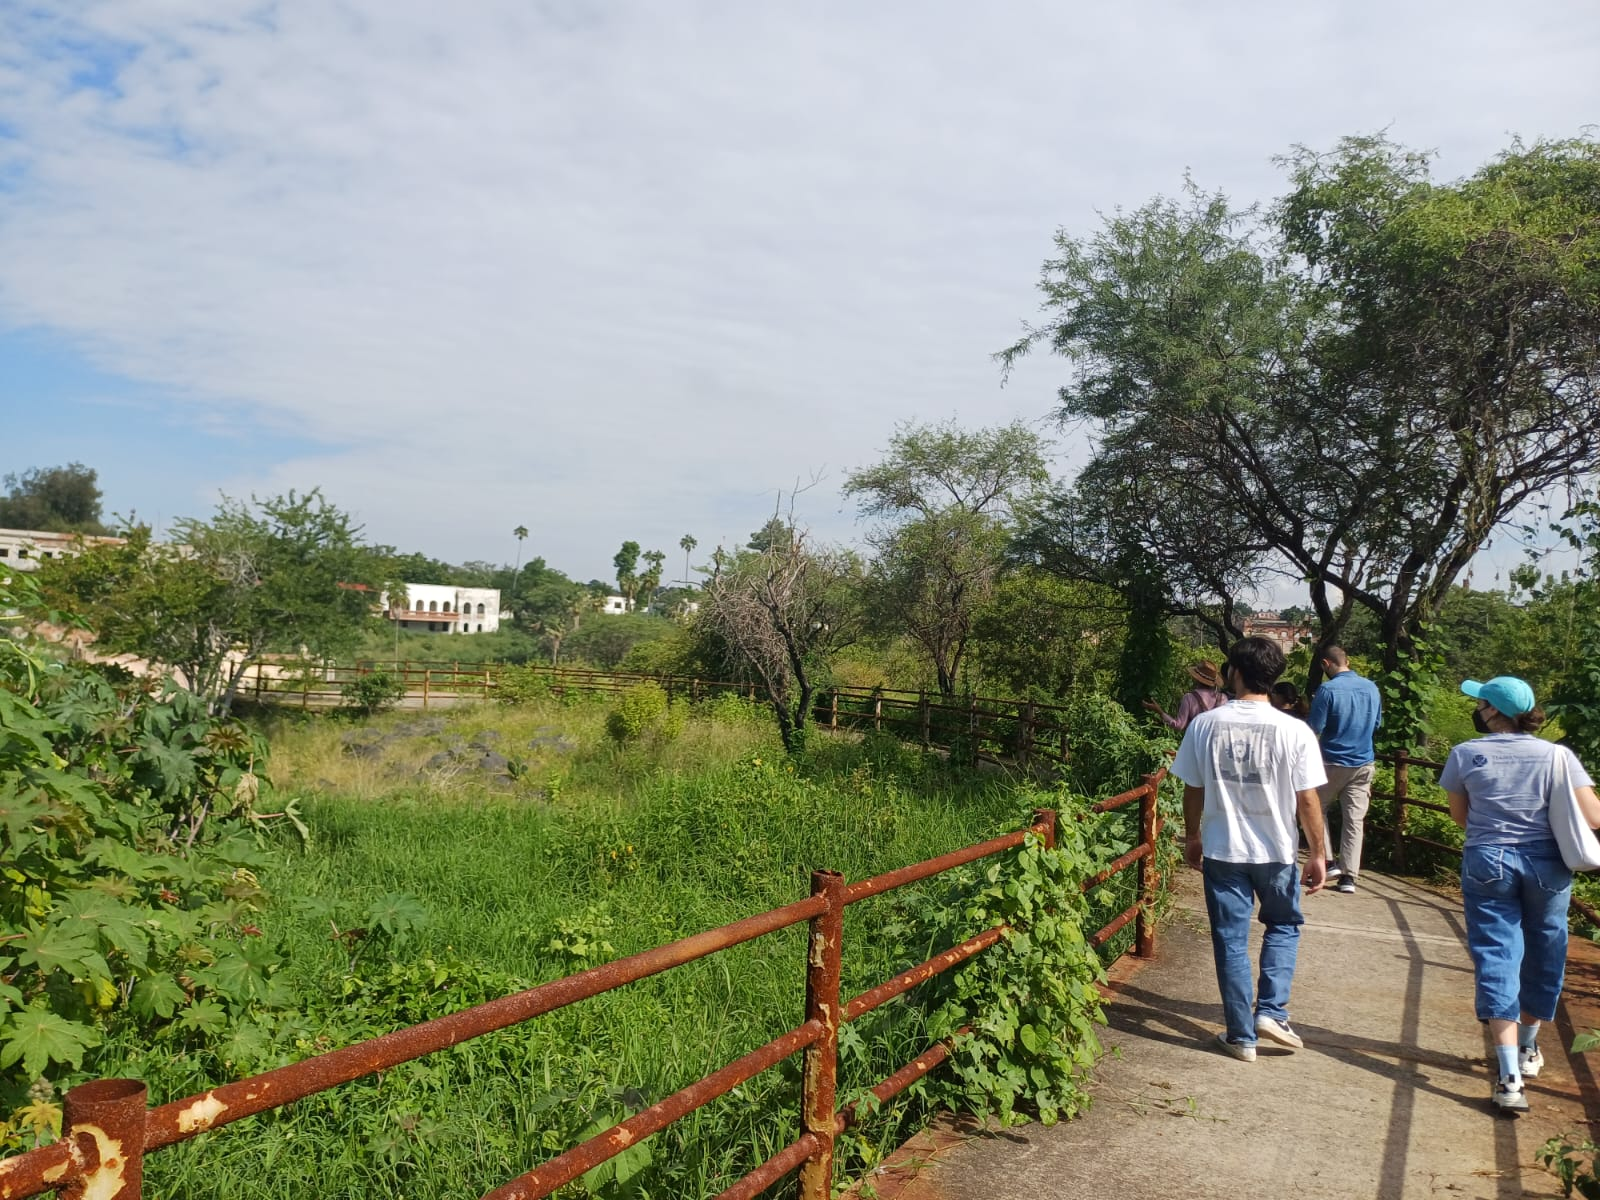
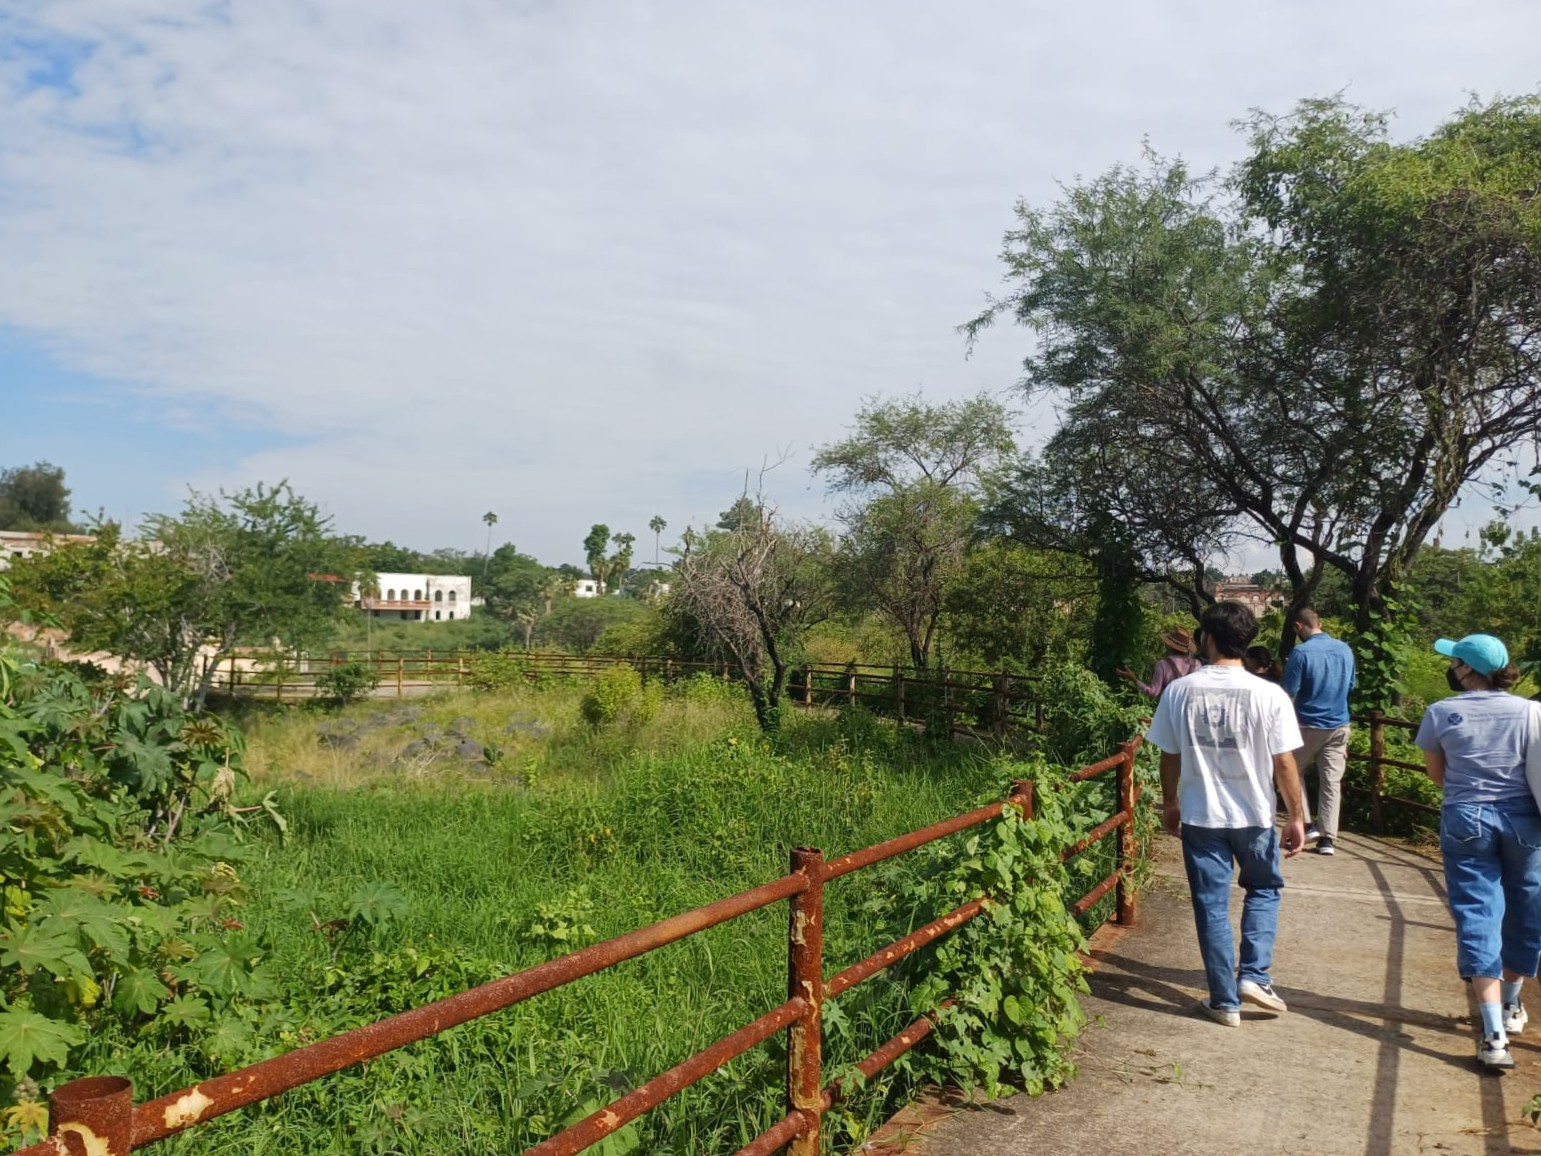
feat: agregar imágenes faltantes de regiones

diff --git a/src/pages/home/Home-Comunidades.tsx b/src/pages/home/Home-Comunidades.tsx
@@ -4,13 +4,18 @@ import brush1 from "@assets/brushStrokes/img10-3-1.png"
 import brush2 from "@assets/brushStrokes/img10-2-4.png"
 import brush3 from "@assets/brushStrokes/img10-1-3.png"
 
-import imgTmp from "@assets/regiones/image-2-2.png"
 import imgAltosNorte from "@assets/regiones/altos-norte.jpg"
 import imgCienega from "@assets/regiones/cienega.jpg"
 import imgNorte from "@assets/regiones/norte.jpg"
 import imgSierraOccidental from "@assets/regiones/sierra-occidental.jpeg"
 import imgAltosSur from "@assets/regiones/altos-sur-2.jpeg"
-import imgCentro from "@assets/regiones/centro.png"
+import imgCentro from "@assets/regiones/centro.jpg"
+import imgLagunas from "@assets/regiones/lagunas.jpeg"
+import imgSierraAmula from "@assets/regiones/sierra-amula.jpeg"
+import imgCostaSur from "@assets/regiones/costa-sur.jpeg"
+import imgValles from "@assets/regiones/valles.jpeg"
+import imgSur from "@assets/regiones/sur.jpeg"
+import imgSureste from "@assets/regiones/image-2-2.png"
 
 const comunidades = [
     {
@@ -35,37 +40,32 @@ const comunidades = [
     },
     {
         name: 'Sureste',
-        img: imgTmp,
+        img: imgSureste,
         to: '/regiones/sureste'
     },
     {
         name: 'Sur',
-        img: imgTmp,
+        img: imgSur,
         to: '/regiones/sur'
     },
     {
         name: 'Sierra de Amula',
-        img: imgTmp,
-        to: '/regiones/sierra-amula'
+        img: imgSierraAmula,
+        to: '/regiones/sierra-de-amula'
     },
     {
         name: 'Costa Sur',
-        img: imgTmp,
+        img: imgCostaSur,
         to: '/regiones/costa-sur'
     },
     {
-        name: 'Costa Norte',
-        img: imgTmp,
-        to: '/regiones/costa-norte'
-    },
-    {
-        name: 'Sierra Occidental',
+        name: 'Costa Sierra Occidental',
         img: imgSierraOccidental,
-        to: '/regiones/sierra-occidental'
+        to: '/regiones/costa-sierra-occidental'
     },
     {
         name: 'Valles',
-        img: imgTmp,
+        img: imgValles,
         to: '/regiones/valles'
     },
     {
@@ -73,6 +73,11 @@ const comunidades = [
         img: imgCentro,
         to: '/regiones/centro'
     },
+    {
+        name: 'Lagunas',
+        img: imgLagunas,
+        to: '/regiones/lagunas'
+    }
 ]
 
 export default function HomeComunidades() {
@@ -104,7 +109,7 @@ export default function HomeComunidades() {
                         hover:scale-110">
                             <img src={c.img} alt="Imagen 1" className="w-full h-48 object-cover rounded-3xl shadow-md"></img>
                             <div className="p-4 flex justify-center">
-                                <h3 className="text-4xl font-semibold text-gray-800">{c.name}</h3>
+                                <h3 className="w-full text-center text-3xl font-semibold text-gray-800">{c.name}</h3>
                             </div>
                         </div>
                     </Link>
